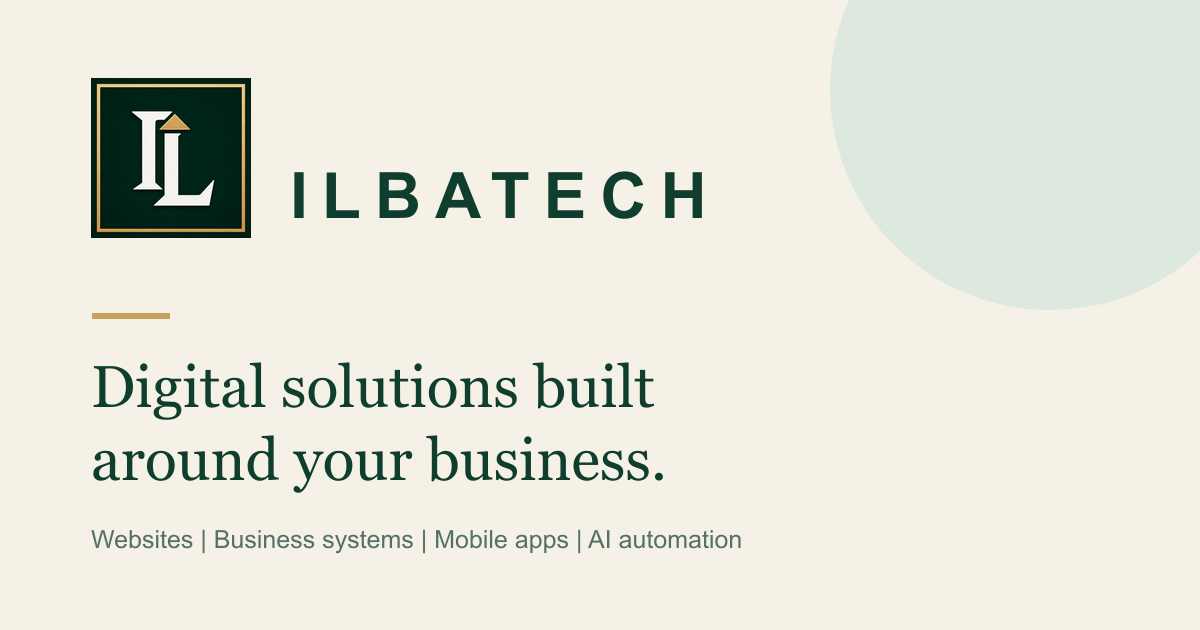
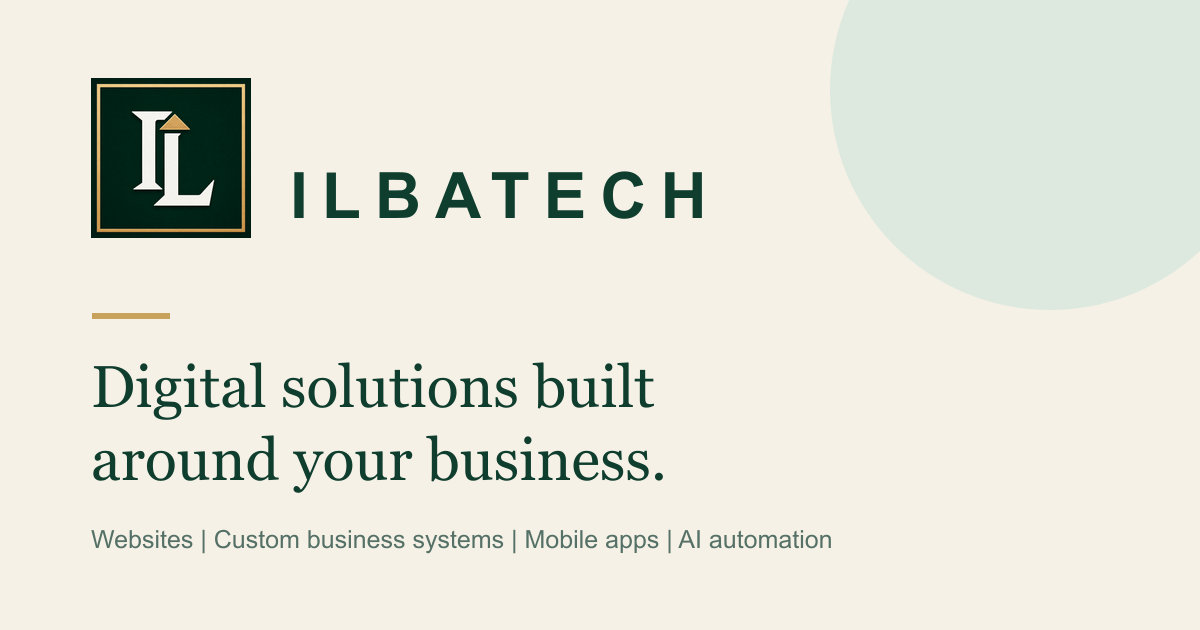
Clarify custom business systems positioning

Changed region(s): [[0.185, 0.8444, 0.7092, 0.8746]]

diff --git a/src/config/offerings.ts b/src/config/offerings.ts
@@ -13,6 +13,7 @@ export type Offering = {
   slug: string;
   title: string;
   seoTitle?: string;
+  seoDescription?: string;
   eyebrow: string;
   summary: string;
   introduction: string;
@@ -78,7 +79,7 @@ export const SERVICE_AREAS: Offering[] = [
         href: "/solutions/customer-experience-and-growth",
       },
       {
-        title: "Business Systems & Consulting",
+        title: "Custom Business Systems",
         description: "Connect the customer-facing experience to the operation behind it.",
         href: "/services/business-systems-and-consulting",
       },
@@ -220,46 +221,48 @@ export const SERVICE_AREAS: Offering[] = [
   },
   {
     slug: "business-systems-and-consulting",
-    title: "Business Systems & Consulting",
-    seoTitle: "Business Systems & Technology Consulting",
-    eyebrow: "Clarity, coordination, and direction",
+    title: "Custom Business Systems",
+    seoTitle: "Custom Business Systems & Business Software Development",
+    seoDescription:
+      "ILBATECH designs and develops custom business software from the ground up around specific workflows, users, data, reporting, and operational requirements.",
+    eyebrow: "Software shaped around your operation",
     summary:
-      "Practical business systems and technology guidance that improve visibility, coordination, and confident decision-making.",
+      "Custom-built software designed around how your business actually works.",
     introduction:
-      "The right system should give important business information a useful home and support the way people actually work. The right advice should make the decision clearer before any implementation begins.",
+      "We design and develop business systems from the ground up around your specific operations, workflows, users, and requirements. From inventory and internal dashboards to management platforms and operational tools, every system is tailored to the business rather than forcing the business into pre-built software.",
     problemStatement:
-      "Scattered customer information, difficult booking processes, disconnected operational data, and technology choices without a clear business case can all create unnecessary uncertainty.",
+      "Built around your workflow — not the other way around. That means the system can reflect your user roles, custom permissions, business-specific data, reporting needs, operational processes, and required integrations.",
     whoFor: [
-      "Businesses reviewing CRM, booking, or management systems",
-      "Teams whose important information is scattered across tools",
-      "Leaders planning modernization or digital transformation",
-      "Organizations that need independent clarity before committing to technology",
+      "Businesses with workflows that generic software does not fit well",
+      "Teams whose operations depend on disconnected tools or spreadsheets",
+      "Organizations that need role-specific access and permissions",
+      "Leaders planning for future operational growth",
     ],
     commonProblems: [
-      "Customer, booking, or operational information is hard to coordinate",
-      "Teams lack a shared view of important activity",
-      "Current systems are outdated, fragmented, or difficult to use",
-      "Technology options are being compared without clear decision criteria",
+      "Pre-built software forces important work into awkward workarounds",
+      "User roles and permissions do not match how responsibility is assigned",
+      "Business-specific data and reporting needs are difficult to support",
+      "Operational processes and essential tools are not connected",
     ],
     capabilities: [
-      "CRM and customer-management systems",
-      "Booking and reservation systems",
-      "Business management and operational systems",
-      "Technology discovery and option assessment",
-      "Digital transformation planning",
-      "Implementation roadmaps and integration guidance",
+      "Inventory Management",
+      "Internal Dashboards",
+      "Operations Management",
+      "Workflow Management",
+      "Reporting & Analytics",
+      "Custom Admin Platforms",
     ],
     outcomes: [
-      "More useful visibility into customers and operations",
-      "Clearer, more consistent ways of working",
-      "Technology decisions connected to defined business needs",
-      "A practical modernization path without unnecessary disruption",
+      "Software that follows the business workflow instead of reshaping it",
+      "Clear access and permissions for each type of user",
+      "Data and reporting structured around real operational needs",
+      "A scalable foundation that can evolve and integrate where required",
     ],
     approach: [
-      "Understand the decision, operation, and people affected",
-      "Clarify requirements and distinguish needs from preferences",
-      "Assess whether to improve, connect, configure, or build",
-      "Set out a practical path and support careful implementation",
+      "Understand the operation, workflows, users, and requirements",
+      "Define the data, permissions, reporting, integrations, and future needs",
+      "Design and develop the system from the ground up around that context",
+      "Test with the people who will use it and evolve it as the business grows",
     ],
     googleService: "Not sure, I need advice",
     relatedLinks: [
@@ -333,7 +336,7 @@ export const SOLUTION_AREAS: Offering[] = [
         href: "/services/websites-and-commerce",
       },
       {
-        title: "Business Systems & Consulting",
+        title: "Custom Business Systems",
         description: "Improve the customer information and follow-up behind the experience.",
         href: "/services/business-systems-and-consulting",
       },
@@ -440,8 +443,8 @@ export const SOLUTION_AREAS: Offering[] = [
     googleService: "Other",
     relatedLinks: [
       {
-        title: "Business Systems & Consulting",
-        description: "Explore CRM, booking, management, and advisory capabilities.",
+        title: "Custom Business Systems",
+        description: "Explore software designed around unique operational requirements.",
         href: "/services/business-systems-and-consulting",
       },
       {
@@ -496,8 +499,8 @@ export const SOLUTION_AREAS: Offering[] = [
     googleService: "Not sure, I need advice",
     relatedLinks: [
       {
-        title: "Business Systems & Consulting",
-        description: "Explore advisory and systems capabilities for a practical roadmap.",
+        title: "Custom Business Systems",
+        description: "Explore software built around specific workflows and operational needs.",
         href: "/services/business-systems-and-consulting",
       },
       {

diff --git a/src/app/page.tsx b/src/app/page.tsx
@@ -23,12 +23,12 @@ import { BUSINESS_SERVICES, V4_WORK } from "@/config/v4-content";
 export const metadata: Metadata = {
   title: "Digital Solutions That Help Businesses Grow",
   description:
-    "ILBATECH builds websites, business systems, mobile apps and AI automation tailored to how your business works.",
+    "ILBATECH builds websites, custom business systems, mobile apps and AI automation tailored to how your business works.",
   alternates: { canonical: "/" },
   openGraph: {
     title: "Digital Solutions That Help Businesses Grow | ILBATECH",
     description:
-      "Websites, business systems, mobile apps and AI automation built around your business.",
+      "Websites, custom business systems, mobile apps and AI automation built around your business.",
     url: "/",
     images: [
       {
@@ -77,14 +77,14 @@ export default function Home() {
             <div className="v4-hero-copy">
               <SectionEyebrow>Technology made useful</SectionEyebrow>
               <h1>Digital solutions that help businesses grow.</h1>
-              <p>We build websites, business systems, mobile apps and AI automation tailored to how your business works.</p>
+              <p>We build websites, custom business systems, mobile apps and AI automation tailored to how your business works.</p>
               <div className="hero-actions">
                 <Button href="/work">Explore Our Work</Button>
                 <Button href="#contact" variant="secondary">Tell Us What You Need</Button>
               </div>
             </div>
 
-            <div className="digital-ecosystem" aria-label="A connected website, business system and mobile app illustration" role="img">
+            <div className="digital-ecosystem" aria-label="A connected website, custom business system and mobile app illustration" role="img">
               <div className="ecosystem-orbit" aria-hidden="true" />
               <div className="ecosystem-laptop">
                 <div className="ecosystem-bar"><i /><i /><i /></div>

diff --git a/src/config/work-projects.ts b/src/config/work-projects.ts
@@ -153,7 +153,7 @@ export const WORK_PROJECTS: readonly WorkProject[] = [
   {
     slug: "business-operations-dashboard",
     title: "Business Operations Dashboard",
-    category: "Business Systems & Automation",
+    category: "Custom Business Systems & Automation",
     summary:
       "An interactive operations workspace connecting sample clients, projects, tasks, analytics, demo automations, and deterministic AI-assisted insights.",
     description:
@@ -163,7 +163,7 @@ export const WORK_PROJECTS: readonly WorkProject[] = [
     contactService: "AI & Task Automation",
     relatedService: {
       href: "/services/business-systems-and-consulting",
-      label: "business systems and technology consulting services",
+      label: "custom business systems services",
     },
     conceptNote:
       "Built by ILBATECH to connect daily operations, workflow automation, and grounded AI assistance.",
@@ -186,7 +186,7 @@ export const WORK_PROJECTS: readonly WorkProject[] = [
       "Enable, disable, inspect, and simulate automation concepts",
       "Deterministic AI-assisted operational summaries and priorities",
     ],
-    capabilities: ["Business systems", "Operations UX", "Workflow management", "Automation concepts", "AI-assisted operations"],
+    capabilities: ["Custom business systems", "Operations UX", "Workflow management", "Automation concepts", "AI-assisted operations"],
     visualDescription:
       "a professional operations workspace with consistent sample records, task controls, responsive analytics, automation simulations, and grounded AI insights",
   },

diff --git a/src/app/services/page.tsx b/src/app/services/page.tsx
@@ -6,7 +6,7 @@ import { BUSINESS_SERVICES } from "@/config/v4-content";
 
 export const metadata: Metadata = {
   title: "Business Technology Services",
-  description: "Websites, business systems, mobile apps, AI automation, support and maintenance built around your business.",
+  description: "Websites, custom business systems, mobile apps, AI automation, support and maintenance built around your business.",
   alternates: { canonical: "/services/" },
   openGraph: {
     title: "Business Technology Services | ILBATECH",
@@ -18,7 +18,7 @@ export const metadata: Metadata = {
 const icons = [PanelsTopLeft, Workflow, Smartphone, Bot, Headphones] as const;
 const capabilityLists = [
   ["Professional websites", "Responsive web apps", "E-commerce experiences", "Customer-facing digital experiences"],
-  ["Customer and order management", "Inventory systems", "Project and operations systems", "Business dashboards"],
+  ["Inventory Management", "Internal Dashboards", "Workflow Management", "Custom Admin Platforms"],
   ["iOS and Android experiences", "Customer apps", "Internal employee apps", "Mobile ordering and services"],
   ["Repetitive task automation", "Workflow automation", "Reporting and notifications", "AI-assisted processes"],
   ["Post-launch support", "Technical maintenance", "Bug fixes and updates", "Ongoing improvement"],

diff --git a/src/app/services/[slug]/page.tsx b/src/app/services/[slug]/page.tsx
@@ -19,14 +19,15 @@ export async function generateMetadata({
 }: ServicePageProps): Promise<Metadata> {
   const offering = getServiceArea((await params).slug);
   if (!offering) return {};
+  const description = offering.seoDescription ?? offering.summary;
 
   return {
     title: offering.seoTitle ?? offering.title,
-    description: offering.summary,
+    description,
     alternates: { canonical: `/services/${offering.slug}/` },
     openGraph: {
       title: `${offering.title} | ${SITE.shortName}`,
-      description: offering.summary,
+      description,
       url: `/services/${offering.slug}/`,
     },
   };

diff --git a/src/app/contact/page.tsx b/src/app/contact/page.tsx
@@ -6,7 +6,7 @@ import { SITE } from "@/config/site";
 
 export const metadata: Metadata = {
   title: "Contact",
-  description: "Tell ILBATECH about the website, business system, mobile app or automation your business needs.",
+  description: "Tell ILBATECH about the website, custom business system, mobile app or automation your business needs.",
   alternates: { canonical: "/contact/" },
   openGraph: { title: "Contact ILBATECH", description: "Tell us what your business needs and start a useful conversation.", url: "/contact/" },
 };

diff --git a/src/components/contact-form.tsx b/src/components/contact-form.tsx
@@ -10,7 +10,7 @@ type SubmissionStatus = "idle" | "submitting" | "success" | "error";
 const SUBMISSION_TIMEOUT_MS = 20_000;
 const HELP_OPTIONS = [
   { label: "Website / Web App", service: "Website Development" },
-  { label: "Business System", service: "Not sure, I need advice" },
+  { label: "Custom Business System", service: "Not sure, I need advice" },
   { label: "Mobile App", service: "Mobile Application" },
   { label: "AI / Automation", service: "AI & Task Automation" },
   { label: "E-Commerce", service: "E-Commerce" },

diff --git a/src/config/v4-content.ts b/src/config/v4-content.ts
@@ -6,9 +6,9 @@ export const BUSINESS_SERVICES = [
     href: "/services/websites-and-commerce",
   },
   {
-    title: "Business Systems",
+    title: "Custom Business Systems",
     description:
-      "Practical systems for customers, orders, inventory, projects, operations and clear business dashboards.",
+      "Custom-built software designed around how your business actually works.",
     href: "/services/business-systems-and-consulting",
   },
   {

diff --git a/src/config/site.ts b/src/config/site.ts
@@ -8,7 +8,7 @@ export const SITE = {
     accent: "TECH",
   },
   description:
-    "ILBATECH helps businesses improve the way they operate through practical, business-led technology solutions.",
+    "ILBATECH builds websites, custom business systems, mobile apps, and automation around the way each business works.",
   email: "edmondilbawi@gmail.com",
   phoneDisplay: "+961 81 958 984",
   whatsappDigits: WHATSAPP_DIGITS,

diff --git a/UX_ACCEPTANCE.md b/UX_ACCEPTANCE.md
@@ -56,7 +56,7 @@ Service-card mapping:
 - Professional Business Websites, E-commerce Websites, Website Redesigns → Websites & Commerce
 - Web Applications, Mobile Applications → Software & Applications
 - AI Automation, Workflow Automation → Automation & AI
-- Business Management Systems, CRM Systems, Booking & Reservation Systems, Digital Transformation, Technology Consulting → Business Systems & Consulting
+- Business Management Systems, CRM Systems, Booking & Reservation Systems, Digital Transformation, Technology Consulting → Custom Business Systems
 
 ## Solutions
 
